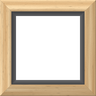
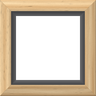
Frames: whole visible frame is exactly 10 mm (7 mm oak + 3 mm gap)

diff --git a/js/frames.js b/js/frames.js
@@ -1,5 +1,5 @@
 /* Oak floating frames at true scale on the Ritushka and Nick Brand pages.
-   Every frame is 10 mm of oak plus a 4 mm shadow gap (14 mm in total), measured against the real width of the artwork,
+   Every frame is 10 mm wide in total (7 mm of oak plus a 3 mm shadow gap), measured against the real width of the artwork,
    so a frame is always exactly in proportion to the picture it surrounds. */
 (() => {
   const body = document.body;
@@ -7,7 +7,7 @@
   const D = window.NITA_DATA || {};
   const art = {};
   ['rit', 'bod'].forEach(k => (D[k] || []).forEach(a => { art[a.img.split('/').pop()] = a; }));
-  const MM = 14;                                   // 10 mm oak + 4 mm gap
+  const MM = 10;                                   // the whole visible frame (7 mm oak + 3 mm gap) is 10 mm
   const nums = s => (String(s).match(/\d+(\.\d+)?/g) || []).map(Number);
   const file = img => (img.currentSrc || img.src || '').split('?')[0].split('/').pop();
 

diff --git a/js/nick.js b/js/nick.js
@@ -63,7 +63,7 @@ const ctx = i => ({ n: bod.length, i, get() {
   let fr = '';
   frames.forEach((f, i) => {
     const w = f.w * k, h = f.h * k, y = hang - h / 2;
-    const fa = 1.0 * k, gp = 0.4 * k, o = fa + gp;           // 10 mm oak, 4 mm shadow gap, at this drawing's scale
+    const fa = 0.7 * k, gp = 0.3 * k, o = fa + gp;           // 10 mm in total: 7 mm oak + 3 mm shadow gap, at this drawing's scale
     const X0 = f.x - o, Y0 = y - o, X1 = f.x + w + o, Y1 = y + h + o, x0 = f.x - gp, y0 = y - gp, x1 = f.x + w + gp, y1 = y + h + gp;
     const poly = (pts, c) => `<polygon points="${pts}" fill="${c}" stroke="#8c6b40" stroke-width=".18" stroke-linejoin="miter"/>`;
     const oak = poly(`${X0},${Y0} ${X1},${Y0} ${x1},${y0} ${x0},${y0}`, '#ecd3a8') + poly(`${X0},${Y0} ${x0},${y0} ${x0},${y1} ${X0},${Y1}`, '#dfc395')

diff --git a/index.html b/index.html
@@ -48,7 +48,7 @@
 <section class="hero" id="hero">
   <canvas id="blobs" aria-hidden="true"></canvas>
   <div class="floaters" aria-hidden="true">
-    <img class="fl f1" data-depth="0.9" data-fm="9" src="img/rit/sunrise-over-tokyo.jpg" alt="">
+    <img class="fl f1" data-depth="0.9" src="img/rit/sunrise-over-tokyo.jpg" alt="">
     <img class="fl f2" data-depth="1.6"  src="img/rit/turquoise-tuesday.jpg" alt="">
     <img class="fl f3" data-depth="0.6"  src="img/bod/saturn.jpg" alt="">
     <img class="fl f4" data-depth="1.3"  src="img/bod/hidden-seams.jpg" alt="">
